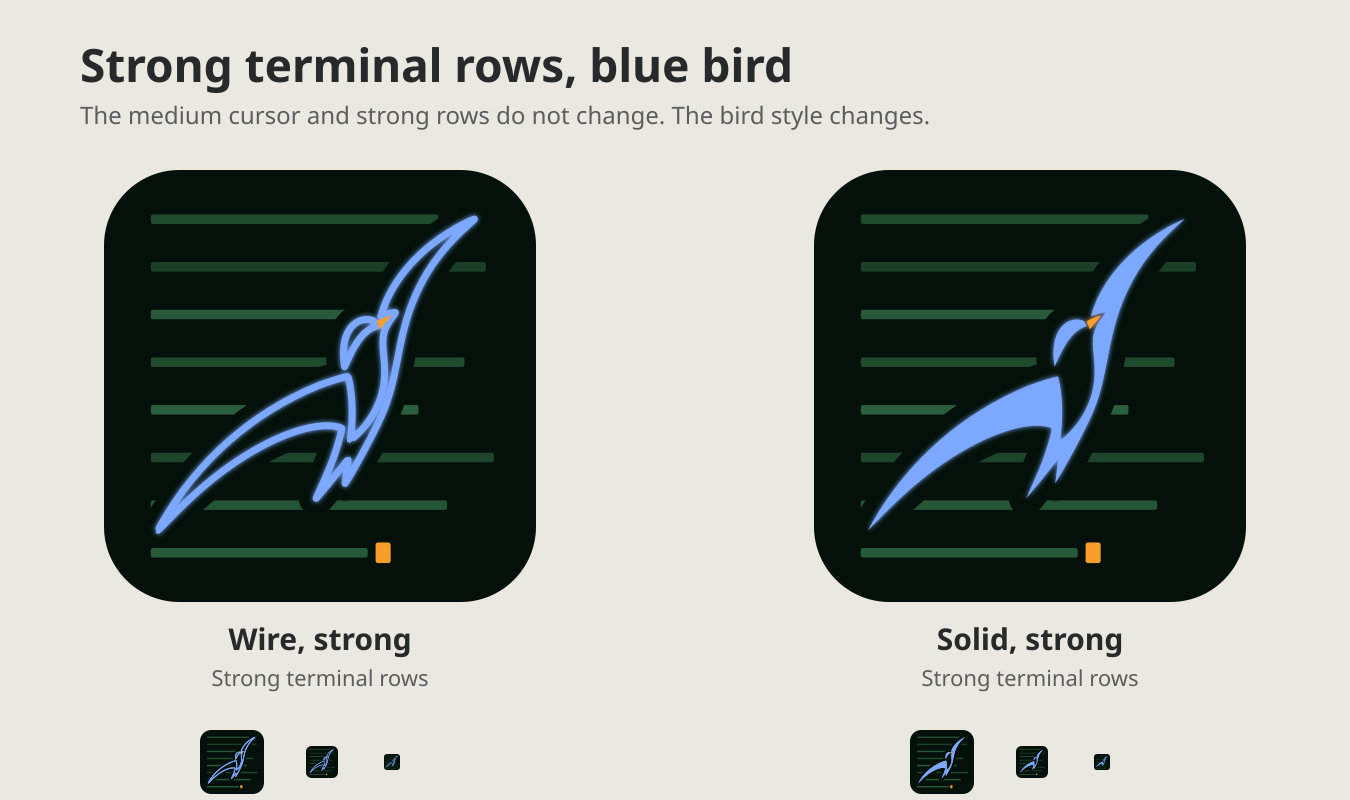
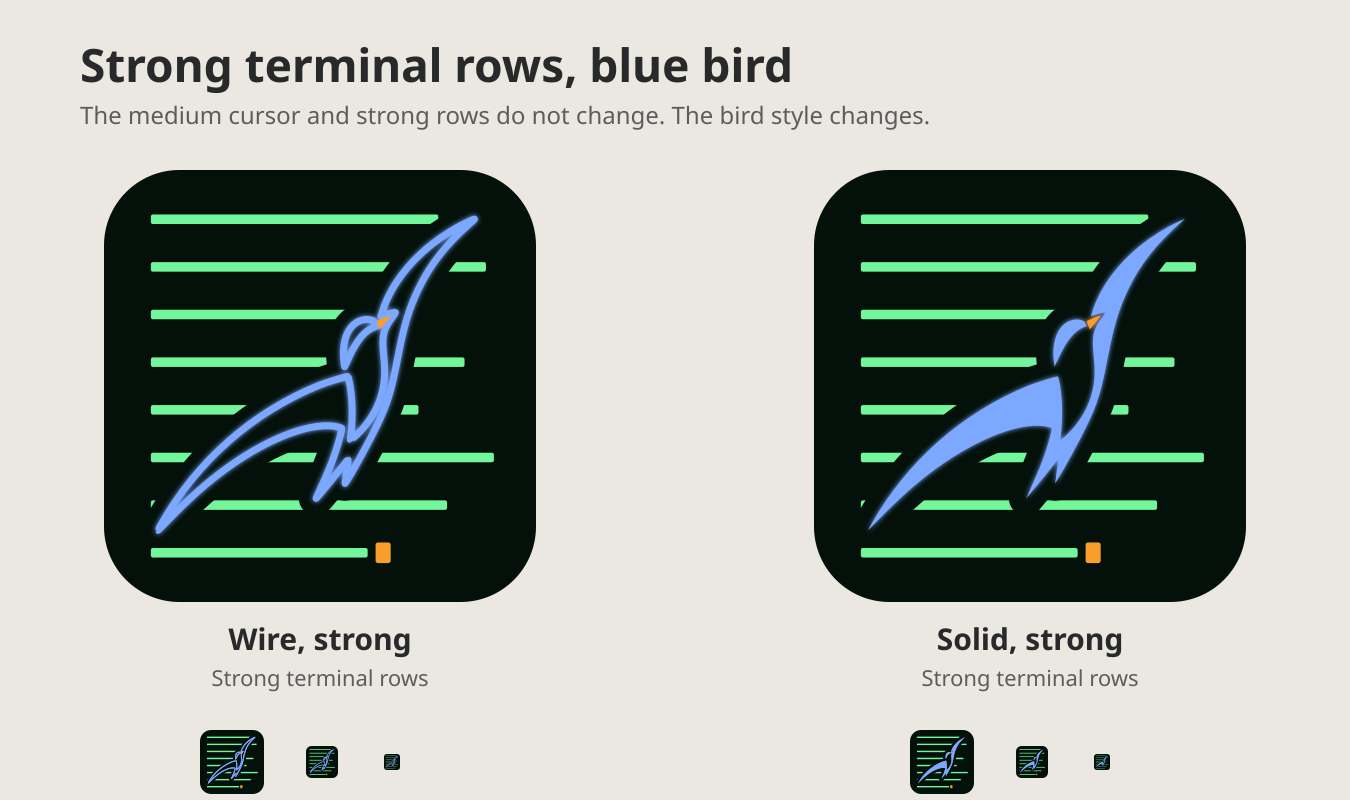
Brighten the rows and compare green against blue

diff --git a/assets/branding/sterna/README.md b/assets/branding/sterna/README.md
@@ -28,7 +28,8 @@ the source of truth; the PNG and ICO application assets are generated from it.
 | `samples/sparse-output-cursor-studies.{svg,png}` | Review sheet for sparse-output cursor and bird treatments. |
 | `samples/tall-cursor-bird-studies.{svg,png}` | Review sheet for tall cursor widths with wire and solid birds. |
 | `samples/row-strength-bird-studies.{svg,png}` | Review sheet for terminal row strengths with wire and solid birds. |
-| `samples/blue-compare.{svg,png}` | Review sheet for blue wire and solid birds over strong terminal rows. |
+| `samples/blue-compare.{svg,png}` | Review sheet for blue wire and solid birds over bright terminal rows. |
+| `samples/bird-colour-compare.{svg,png}` | Review sheet comparing blue and green birds over original and bright rows. |
 
 The primary and small marks use negative space for the white body, so use them
 on light backgrounds. Use a mono mark on coloured backgrounds. The application
